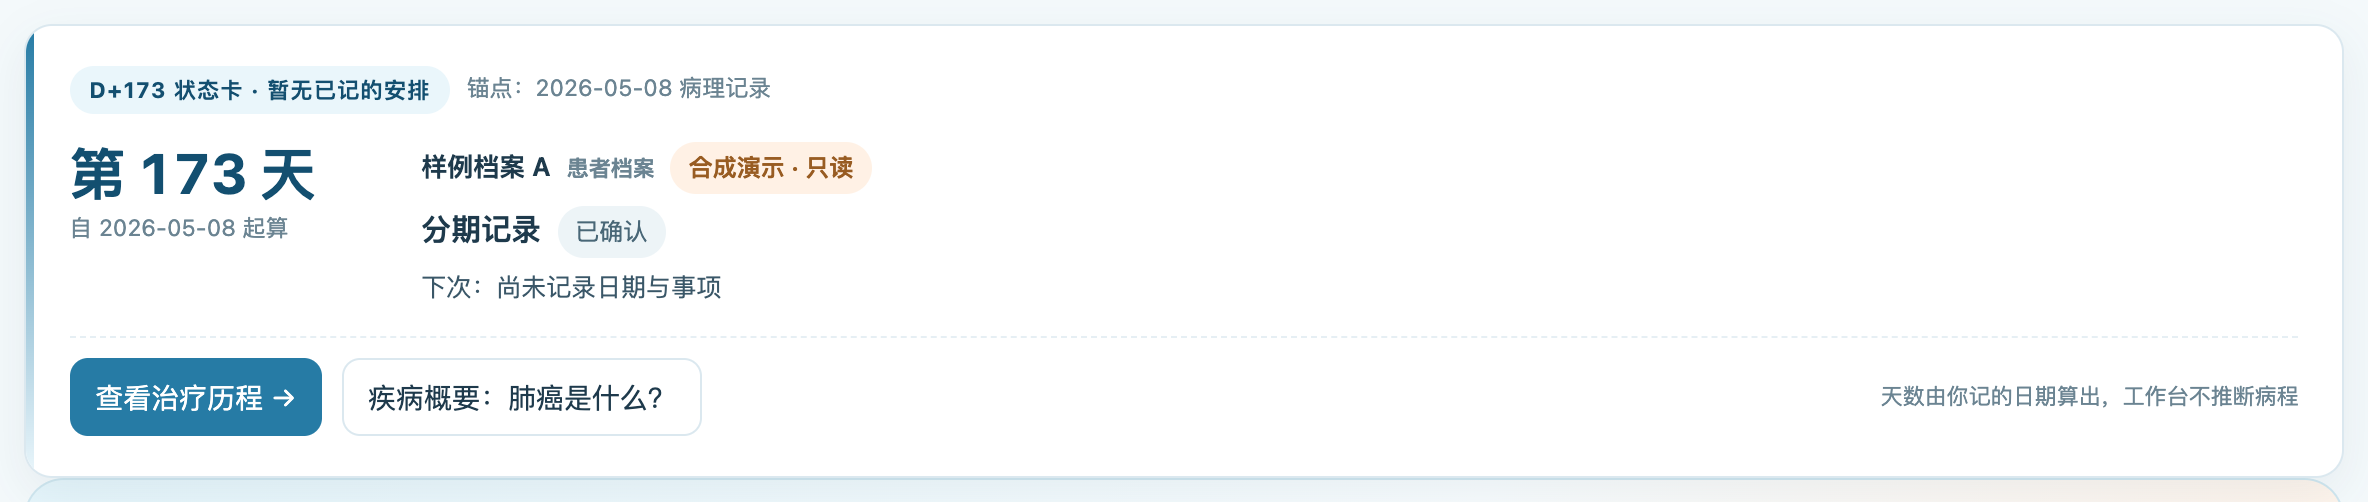
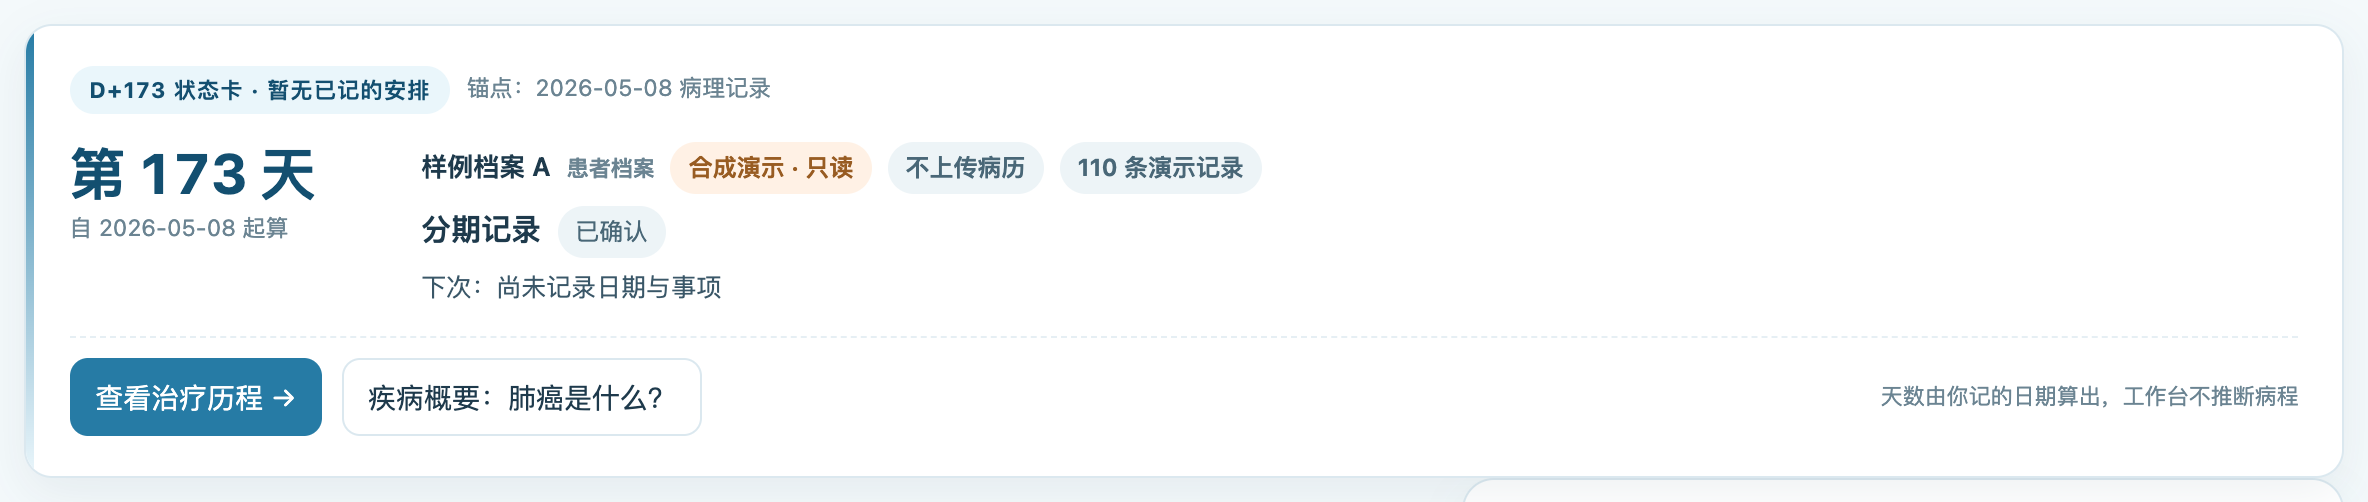
fix(36): 看板只留一个「下一步」+ 修正「距下次」天数方向（0.1.2-rc.18）
demo v4.2.8 确认后的应用层收口，修三个真缺陷：

1) 同屏两套「下一步」互相打架：状态卡写「暂无已记的安排」，下面的问候横幅
   却把 80 多天前的一条记录标成「下一步：骨转移灶姑息放疗」。按原型
   hero() = statusCard() 对齐——撤掉横幅，状态卡即首卡；原横幅上的
   「不上传病历」「N 条记录」标签并入状态卡档案行，信息不丢。
2) 天数方向反了：nextGap 用 dayOf()（今天 − 日期），未来的安排被渲染成
   「已过 N 天，待更新」（2099 年的安排会显示已过 26427 天）。改为取反；
   日期已过的安排按历史处理，不再计入「下次」。
3) 撤横幅后新用户丢了「浏览演示病例」入口，空态补回，与「＋ 建立本机资料档案」并列。

另：卡头按原型补事项名「距下次「胸部 CT 复查」N 天」，超 14 字退回通用说法。

- test/client-render.test.js 新增 3 条（唯一「下一步」来源 / 未来安排天数 /
  过期安排不算下次），64/64 通过；npm run check 通过。
- 真实渲染复验：1440/1024/820/空态均无横向溢出，0 console 报错，
  四段概要 26 链接全 https、指南表 9 行 9 链接、返回与 Esc 各只退一层。
- 记录 docs/reviews/RC18-DASHBOARD-SINGLE-NEXT.md；RC17 文档修正过期表述与
  三条已替换的弱链。
- 包 release/xyb-openharness-dsh-plugins-lung-cancer-workbench-0.1.2-rc.18.tgz，
  已装 profile 并核对库内与仓库 client.js 同 sha。

Changed region(s): [[0.0312, 0.9263, 0.625, 0.9562], [0.375, 0.2988, 0.5312, 0.3586]]

diff --git a/lib/client.js b/lib/client.js
@@ -4,7 +4,7 @@ window.__ModuleLoader__.load({
     const React = require('react')
     const h = React.createElement
     const API = '/api/lung-cancer-workbench'
-    const VERSION = '0.1.2-rc.17 · 开发中'
+    const VERSION = '0.1.2-rc.18 · 开发中'
     /*__CHART_HELPERS_START__*/
 function metricIdentity(record) {
   return [record.data.metricName || '未命名指标',record.data.unit || '单位未记录',record.data.methodText || '方法未记录',record.data.laboratoryText || '实验室未记录'].join(' · ')
@@ -1438,7 +1438,9 @@ const primerStatusCard = () => {
   const who = caseFile
     ? h('div', { className: 'sc-who' }, caseFile.displayName || '我的资料',
       h('span', { className: 'wb-muted wb-small' }, caseFile.subjectRole === 'caregiver' ? '照护者档案' : '患者档案'),
-      h('span', { className: 'wb-tag ' + (isDemoCase ? 'orange' : 'blue') }, isDemoCase ? '合成演示 · 只读' : '本机保存'))
+      h('span', { className: 'wb-tag ' + (isDemoCase ? 'orange' : 'blue') }, isDemoCase ? '合成演示 · 只读' : '本机保存'),
+      h('span', { className: 'wb-tag' }, '不上传病历'),
+      h('span', { className: 'wb-tag' }, `${records.length} 条${isDemoCase ? '演示' : '个人'}记录`))
     : h('div', { className: 'sc-who' }, '还没有建立本机资料档案',
       h('span', { className: 'wb-tag' }, '建立后这里才会出现天数'))
   const primerButton = h('button', { type: 'button', className: 'wb-button wb-primer-open', onClick: openPrimer }, '疾病概要：肺癌是什么？')
@@ -1452,15 +1454,23 @@ const primerStatusCard = () => {
         stageRecord ? h('div', { className: 'sc-stage' }, h('b', null, dataTitle(stageRecord)), h('span', { className: 'wb-tag' }, statusText(stageRecord))) : null,
         h('div', { className: 'sc-next' }, '记一条已确认的病理或诊断记录后，这张卡会显示「第 N 天」与距下次安排的间隔。当前不推算，也不填占位数字。')),
       h('div', { className: 'sc-actions' },
-        caseFile ? button('去病情整理 →', () => setPage('records'), 'wb-button primary') : button('＋ 建立本机资料档案', () => setShowNewCase(true), 'wb-button primary'),
+        caseFile
+          ? button('去病情整理 →', () => setPage('records'), 'wb-button primary')
+          : [button('＋ 建立本机资料档案', () => setShowNewCase(true), 'wb-button primary'),
+            h('button', { key: 'demo', type: 'button', className: 'wb-button soft', onClick: () => setShowCasePicker(true) }, '浏览演示病例')],
         primerButton, hint))
   }
 
   const day = dayOf(anchor) + 1
-  const nextGap = next ? dayOf(dayish(next)) : null
+  /* dayOf() 算的是「今天 − 日期」；下次安排在未来，所以取反才是「还有几天」。
+   * 之前直接用了 dayOf()，未来的安排会被说成「已过 N 天，待更新」。 */
+  const nextGap = next ? -dayOf(dayish(next)) : null
+  /* 原型 v4.2.8 的 eyebrow 是「距下次<事项> N 天」；事项名太长会挤坏卡头，超长时退回通用说法。 */
+  const nextName = next ? dataTitle(next) : ''
+  const shortName = nextName && nextName.length <= 14 ? nextName : ''
   const gapText = nextGap === null ? '暂无已记的安排'
-    : nextGap > 0 ? `距下次安排 ${nextGap} 天`
-      : nextGap === 0 ? '今天有安排' : `已过 ${-nextGap} 天，待更新`
+    : nextGap > 0 ? (shortName ? `距下次「${shortName}」${nextGap} 天` : `距下次安排 ${nextGap} 天`)
+      : nextGap === 0 ? (shortName ? `今天有安排：${shortName}` : '今天有安排') : `已过 ${-nextGap} 天，待更新`
   const core = next ? ['timeline', '查看病程安排 →']
     : dated.some(record => ['systemic_therapy', 'surgery', 'radiotherapy'].includes(record.kind)) ? ['clinical', '查看治疗历程 →']
       : ['records', '查看资料库 →']
@@ -1530,18 +1540,9 @@ const primerStatusCard = () => {
           key: `${target}-${title}`, className: 'wb-task-entry', onClick: () => openQuickLink(target),
           'aria-label': `${title}：${desc}`,
         }, h('span', { className: 'wb-task-icon', 'aria-hidden': true }, icon), h('b', null, title), h('span', { className: 'wb-task-desc' }, desc), h('span', { className: 'wb-task-arrow', 'aria-hidden': true }, '↗')))
-        const hero = h('section', { className: 'wb-hero' },
-          h('div', { className: 'wb-hero-copy' }, h('span', { className: 'wb-eyebrow' }, '今天，先看最要紧的一件事'),
-            h('h2', null, caseFile?.displayName ? `你好，${caseFile.displayName}。把这段路慢慢理清楚。` : '把这段路，慢慢理清楚。'),
-            h('p', null, '报告、取材、治疗和身体变化可以放在一起回顾。暂时不知道的内容可以留空，不需要一次整理完。'),
-            h('div', { className: 'wb-tags' }, h('span', { className: `wb-tag ${isDemoCase ? 'orange' : 'blue'}` }, isDemoCase ? '合成演示 · 只读' : caseFile ? (caseFile.subjectRole === 'caregiver' ? '照护者资料' : '本机资料') : '本机保存'),
-              isDemoCase ? h('span', { className: 'wb-tag' }, caseFile.demoScenario) : null,
-              h('span', { className: 'wb-tag' }, '不上传病历'),
-              caseFile ? h('span', { className: 'wb-tag' }, `${records.length} 条${isDemoCase ? '演示' : '个人'}记录`) : h('span', { className: 'wb-tag' }, '无需一次填完整档案'))),
-          h('aside', { className: 'wb-hero-panel wb-hero-next' }, h('span', { className: 'wb-muted wb-small' }, caseFile ? '下一步' : '从这里开始'),
-            h('strong', null, caseFile ? (arranged[0] ? dataTitle(arranged[0]) : '挑一件最关心的事') : '建立一个本机资料档案'),
-            h('span', { className: 'wb-muted wb-small' }, caseFile ? (arranged[0] ? `${dateText(arranged[0].date)} · ${statusText(arranged[0])}` : '可以先整理报告、准备复诊问题或查看试验登记') : '称呼或代号可空；不需要先填写完整病史。'),
-            caseFile ? button(arranged[0] ? '查看病程安排 →' : '整理复诊问题 →', () => setPage(arranged[0] ? 'timeline' : 'review'), 'wb-button primary') : h('div', { className: 'wb-actions' }, newCase, button('浏览演示病例', () => setShowCasePicker(true), 'wb-button soft'))))
+        /* 36 号 §2.6：看板首卡就是病程状态卡（与原型 v4.2.8 的 hero() = statusCard() 对齐）。
+ * 原来的问候横幅已撤掉——它和状态卡各说一套「下一步」，会给出互相矛盾的结论。 */
+        const hero = primerStatusCard()
         const rightFacts = keyFacts.map(([label,record]) => h('div', { className: 'wb-key-row', key: label },
           h('div', null, h('b', null, label), h('p', null, record ? dataTitle(record) : '尚未记录')),
           h('span', { className: `wb-tag ${record ? record.review.state === 'accepted' ? 'green' : 'orange' : ''}` }, record ? statusText(record) : '未记录')))
@@ -1602,7 +1603,7 @@ const primerStatusCard = () => {
               button('＋ 记录一件事', () => caseFile ? setShowComposer(true) : setShowNewCase(true), 'wb-button primary'),
               h('button', {className:'wb-button soft',onClick:()=>openNativeConversation(),disabled:busy,'aria-controls':showNativeConversation?'wb-ai-pane':undefined,'aria-expanded':showNativeConversation},'打开 AI 助手'),
               button('今日身体变化', () => openQuickLink('care'), 'wb-button'))),
-          primerStatusCard(), hero, h('div', { className: 'wb-dashboard-grid' }, leftColumn, rightColumn), metricsSection,
+          hero, h('div', { className: 'wb-dashboard-grid' }, leftColumn, rightColumn), metricsSection,
           showComposer && caseFile ? renderComposer() : null)
       }
 

diff --git a/lib/client-primer.js b/lib/client-primer.js
@@ -115,7 +115,9 @@ const primerStatusCard = () => {
   const who = caseFile
     ? h('div', { className: 'sc-who' }, caseFile.displayName || '我的资料',
       h('span', { className: 'wb-muted wb-small' }, caseFile.subjectRole === 'caregiver' ? '照护者档案' : '患者档案'),
-      h('span', { className: 'wb-tag ' + (isDemoCase ? 'orange' : 'blue') }, isDemoCase ? '合成演示 · 只读' : '本机保存'))
+      h('span', { className: 'wb-tag ' + (isDemoCase ? 'orange' : 'blue') }, isDemoCase ? '合成演示 · 只读' : '本机保存'),
+      h('span', { className: 'wb-tag' }, '不上传病历'),
+      h('span', { className: 'wb-tag' }, `${records.length} 条${isDemoCase ? '演示' : '个人'}记录`))
     : h('div', { className: 'sc-who' }, '还没有建立本机资料档案',
       h('span', { className: 'wb-tag' }, '建立后这里才会出现天数'))
   const primerButton = h('button', { type: 'button', className: 'wb-button wb-primer-open', onClick: openPrimer }, '疾病概要：肺癌是什么？')
@@ -129,15 +131,23 @@ const primerStatusCard = () => {
         stageRecord ? h('div', { className: 'sc-stage' }, h('b', null, dataTitle(stageRecord)), h('span', { className: 'wb-tag' }, statusText(stageRecord))) : null,
         h('div', { className: 'sc-next' }, '记一条已确认的病理或诊断记录后，这张卡会显示「第 N 天」与距下次安排的间隔。当前不推算，也不填占位数字。')),
       h('div', { className: 'sc-actions' },
-        caseFile ? button('去病情整理 →', () => setPage('records'), 'wb-button primary') : button('＋ 建立本机资料档案', () => setShowNewCase(true), 'wb-button primary'),
+        caseFile
+          ? button('去病情整理 →', () => setPage('records'), 'wb-button primary')
+          : [button('＋ 建立本机资料档案', () => setShowNewCase(true), 'wb-button primary'),
+            h('button', { key: 'demo', type: 'button', className: 'wb-button soft', onClick: () => setShowCasePicker(true) }, '浏览演示病例')],
         primerButton, hint))
   }
 
   const day = dayOf(anchor) + 1
-  const nextGap = next ? dayOf(dayish(next)) : null
+  /* dayOf() 算的是「今天 − 日期」；下次安排在未来，所以取反才是「还有几天」。
+   * 之前直接用了 dayOf()，未来的安排会被说成「已过 N 天，待更新」。 */
+  const nextGap = next ? -dayOf(dayish(next)) : null
+  /* 原型 v4.2.8 的 eyebrow 是「距下次<事项> N 天」；事项名太长会挤坏卡头，超长时退回通用说法。 */
+  const nextName = next ? dataTitle(next) : ''
+  const shortName = nextName && nextName.length <= 14 ? nextName : ''
   const gapText = nextGap === null ? '暂无已记的安排'
-    : nextGap > 0 ? `距下次安排 ${nextGap} 天`
-      : nextGap === 0 ? '今天有安排' : `已过 ${-nextGap} 天，待更新`
+    : nextGap > 0 ? (shortName ? `距下次「${shortName}」${nextGap} 天` : `距下次安排 ${nextGap} 天`)
+      : nextGap === 0 ? (shortName ? `今天有安排：${shortName}` : '今天有安排') : `已过 ${-nextGap} 天，待更新`
   const core = next ? ['timeline', '查看病程安排 →']
     : dated.some(record => ['systemic_therapy', 'surgery', 'radiotherapy'].includes(record.kind)) ? ['clinical', '查看治疗历程 →']
       : ['records', '查看资料库 →']

diff --git a/docs/reviews/RC18-DASHBOARD-SINGLE-NEXT.md b/docs/reviews/RC18-DASHBOARD-SINGLE-NEXT.md
@@ -1,0 +1,62 @@
+# RC18 · 肺癌 demo v4.2.8 确认后的应用层收口
+
+日期：2026-10-27。基线：`docs/prototype/lung-workbench-v4.2.8.html`（本轮已由用户确认）。
+包版本：`0.1.2-rc.18`。前置：RC17 已把疾病概要整页与状态卡接入 `lib/client.js`，但只做到「加一块卡」，没有处理它与看板原有内容的冲突。
+
+## 本轮修掉的三件事
+
+### 1. 看板出现两个「下一步」，结论互相矛盾
+
+同一屏上下两块给出冲突信息：
+
+| 位置 | 内容 |
+| --- | --- |
+| 状态卡（首卡） | `D+173 状态卡 · 暂无已记的安排` / `下次：尚未记录日期与事项` |
+| 问候横幅 | `下一步 骨转移灶姑息放疗 30 Gy / 10 次` `2026-08-05 · 已确认` |
+
+横幅取的是「最近一条已确认安排」，不判日期，把 **已经过去 80 多天** 的记录标成「下一步」。两块并存等于工作台自相矛盾。
+
+按原型对齐：`function hero() { return statusCard(); }`——状态卡 **就是** 首卡。应用侧改成 `const hero = primerStatusCard()`，撤掉问候横幅；原来挂在横幅上的「不上传病历」「N 条演示记录」两个标签并入状态卡的档案信息行，信息不丢。
+
+### 2. 「距下次 N 天」的天数符号反了
+
+`dayOf()` 算的是 `今天 − 日期`。未来的安排代入后得到负数，却被当成「过去」，于是一条 2099 年的安排会渲染成「已过 26427 天，待更新」。改为取反后才是「还有几天」：
+
+```js
+const nextGap = next ? -dayOf(dayish(next)) : null
+```
+
+同时补两条断言锁住方向：未来 → `距下次「…」N 天`；日期已过 → 不出现「距下次」「已过」。日期已过的安排按「历史」处理，不再冒充下次。
+
+### 3. 撤横幅后新用户丢了「浏览演示病例」入口
+
+空态原来只有「＋ 建立本机资料档案」。改为同时给「＋ 建立本机资料档案」「浏览演示病例」，与撤横幅前的能力一致。
+
+## 卡头补回事项名
+
+原型卡头是「距下次<事项> N 天」，应用侧此前只写「距下次安排 N 天」。现按 `dataTitle(next)` 带入事项名；名称超过 14 字时退回通用说法，避免挤坏卡头。
+
+## 验收
+
+- 单测 **64/64**（原 61 + 新增 3 条：唯一「下一步」来源、未来安排天数、过期安排不算下次）
+- `npm run check` 退出码 0
+- 真实渲染（`scripts/dev-browser-preview.mjs` + 演示病例，1440×900）：
+
+| 项 | 值 |
+| --- | --- |
+| 状态卡 | `D+173 状态卡 · 暂无已记的安排`，锚点 2026-05-08 病理记录 |
+| 首卡 | `sc-card`，`.wb-hero` 数量 0 |
+| 疾病概要 | 四段 definition › evidence › landscape › trend，面板 1408×868 |
+| 链接 | 26 个，全 https，缺链红标 0 |
+| 指南表 | 9 行 / 9 个可点链接 |
+| 导航 | 浏览器返回只退一层；Esc 后焦点回「?」 |
+| console | 0 错误 |
+| 溢出 | 1440 / 1024 / 820 / 空态 1440 均 `over=false`、`mainOver=false` |
+
+截图：`rc18-dash1440.png`、`rc18-dash1024.png`、`rc18-dash820.png`、`rc18-empty1440.png`。
+
+## 仍未决
+
+1. 「?」的挂载位置：36 号字面写 `.top-actions`，本项目的顶栏由宿主外壳渲染，现挂在 `.wb-host-actions` 首位，视觉仍在顶栏右侧。
+2. 是否切 2026 版指南作主源（需重核 P35/P36/P40/P208/P209/P227 全部页码）。
+3. 趋势段第 8 条占位说明待真实统计口径。

diff --git a/README.md b/README.md
@@ -2,17 +2,17 @@
 
 ## Git开发快照 · 2026-10-20
 
-保存RC2–RC15阶段累计的单文件客户端、SQLite病例与来源文档服务、临床检索、指标趋势模块、v4.2系列HTML原型及修复记录。最终快照已包含指标目录补全，56项测试通过；继续保留开发分支，实机/原型确认仍待完成。 包版本 `0.1.2-rc.17`；这是开发快照，正式发布状态另行记录。核验结果、已知问题及同步范围见 [本次Git记录](docs/GIT-SYNC-2026-10-20.md)。
+保存RC2–RC15阶段累计的单文件客户端、SQLite病例与来源文档服务、临床检索、指标趋势模块、v4.2系列HTML原型及修复记录。最终快照已包含指标目录补全，56项测试通过；继续保留开发分支，实机/原型确认仍待完成。 包版本 `0.1.2-rc.18`；这是开发快照，正式发布状态另行记录。核验结果、已知问题及同步范围见 [本次Git记录](docs/GIT-SYNC-2026-10-20.md)。
 
 
-面向肺癌患者与照护者的本机资料、就诊准备与综合照护工作台（v0.1.2-rc.17 开发中，未发布）
+面向肺癌患者与照护者的本机资料、就诊准备与综合照护工作台（v0.1.2-rc.18 开发中，未发布）
 
 首版正在实现小肺宝工作台 UI、本机 SQLite 病例记录、用户核对与 JSON 导出、内置临床试验快照搜索及用户主动触发的 ClinicalTrials.gov 在线检索。临床知识、病历解析、AI、上传附件及 DSH 实机验收仍未完成。需求见 [BRIEF](docs/BRIEF.md)，规格见 [SPEC](docs/SPEC.md)，任务见 [TASKS](docs/TASKS.md)。
 
 ## 疾病概要
 
 > 四段固定、整体属解释层（第 ② 层）：只整理公开信息，不判断你的病情。
-> 落地形态（RC17）：顶栏「?」打开整页概要（36 号整页视图，返回与关闭两个入口）；看板首卡是 D+N 状态卡——天数由**已确认的**病理或诊断记录日期派生，没有锚点时整卡显示「待初始化」，不填占位数字。
+> 落地形态（RC18）：顶栏「?」打开整页概要（36 号整页视图，返回与关闭两个入口）；看板首卡**就是** D+N 状态卡（原问候横幅已撤，避免两块各说一套「下一步」），天数由**已确认的**病理或诊断记录日期派生，没有锚点时整卡显示「待初始化」，不填占位数字；卡头的「距下次」只认未来日期，日期已过的安排按历史处理。
 > 原件状态照实写：卫健委 2022 / 2024 两份、CSCO 2026 正文、AJCC 手册**均未取得原件**，页码一律待核。
 
 ### 定义

diff --git a/docs/reviews/RC17-PRIMER-DEMO-REVIEW.md b/docs/reviews/RC17-PRIMER-DEMO-REVIEW.md
@@ -3,7 +3,7 @@
 日期：2026-10-27。基线：`docs/prototype/lung-workbench-v4.2.7.html`（sha256 已冻结在 `prototype-v4.2.7-baseline.json`）。
 候选：`docs/prototype/lung-workbench-v4.2.8.html`。生成命令：`python3 scripts/build-prototype-v428.py`。
 
-本文件只记录**原型层**的交付与实测。应用层（`lib/client.js` React 版浮窗、README 四段、升版、装机）尚未开始，等确认后再做。
+本文件只记录**原型层**的交付与实测。应用层已在 2026-10-27 demo 确认后落地：`0.1.2-rc.17` 接入整页概要与状态卡，`0.1.2-rc.18` 修掉它与看板原有横幅的冲突，见 [RC18](RC18-DASHBOARD-SINGLE-NEXT.md)。
 
 ## 本轮做了什么
 
@@ -22,9 +22,9 @@
 | 机构 / 文件 | 状态 | 链接 |
 | --- | --- | --- |
 | 国家卫生健康委 · 原发性肺癌诊疗指南（2022 年版） | 已取得原件 | `nhc.gov.cn/.../1732863054387_68585.pdf` |
-| 中华医学会 · 肺癌临床诊疗指南（2025 版） | 未取得原件，据二次来源（杂志社公众号全文） | `mp.weixin.qq.com/s?...` |
-| CSCO · 非小细胞肺癌诊疗指南（2025 版） | 未取得原件，据二次来源 | `hnysfww.com/article.php?id=4272` |
-| CSCO · 小细胞肺癌诊疗指南（2025 版） | 未取得原件，据二次来源（更新要点解读） | `liangyihui.net/doc/152195` |
+| 中华医学会 · 肺癌临床诊疗指南（2025 版） | 未取得原件，据二次来源（官方全文库） | `rs.yiigle.com/cmaid/1553565` |
+| CSCO · 非小细胞肺癌诊疗指南（2025 版） | 未取得原件，据二次来源（人卫社书目页） | `pmphmall.com/gdsdetail/654973-333567` |
+| CSCO · 小细胞肺癌诊疗指南（2025 版） | 未取得原件，据二次来源（人卫社书目页） | `pmphmall.com/gdsdetail/654952-333546` |
 | NCCN · NSCLC Guidelines V9.2026 | 未取得原件（官网需注册），据官方目录页 | `nccn.org/...?id=1450` |
 | NCCN · SCLC Guidelines V2.2026 | 未取得原件（官网需注册），据官方目录页 | `nccn.org/...?id=1451` |
 | WHO / IARC · Thoracic Tumours 5th ed.（2021） | 未取得原件（需订阅），据官方出版页 | `publications.iarc.who.int/...` |

diff --git a/CHANGELOG.md b/CHANGELOG.md
@@ -1,5 +1,16 @@
 # 变更记录
 
+## 2026-10-27 · 看板只留一个「下一步」+ 天数方向修正（包版本 0.1.2-rc.18）
+
+用户确认 demo `lung-workbench-v4.2.8.html` 后的应用层收口。
+
+- **撤掉问候横幅**：状态卡成为看板首卡（与原型 `hero() = statusCard()` 一致）。此前横幅与状态卡各说一套「下一步」，横幅还把 80 多天前的记录标成下一步，同屏自相矛盾。原横幅的「不上传病历」「N 条记录」标签并入状态卡档案行。
+- **修正天数方向**：`nextGap` 原用 `dayOf()`（今天 − 日期），未来的安排被渲染成「已过 N 天，待更新」；改为取反。日期已过的安排按历史处理，不再计入「下次」。
+- **卡头带事项名**：`距下次「胸部 CT 复查」N 天`，名字超 14 字退回通用说法。
+- **空态保留演示入口**：「＋ 建立本机资料档案」与「浏览演示病例」并列，撤横幅不减少能力。
+- **测试**：新增 3 条断言（唯一「下一步」来源 / 未来安排天数 / 过期安排不算下次），64/64 通过；`npm run check` 通过。
+- 详细记录：[docs/reviews/RC18-DASHBOARD-SINGLE-NEXT.md](docs/reviews/RC18-DASHBOARD-SINGLE-NEXT.md)。
+
 ## 2026-10-27 · 36 号疾病概要 v2 落地（包版本 0.1.2-rc.17）
 
 - **顶栏「?」→ 整页概要**：`lib/client.js` 新增 `primerOverlay`（36 号整页视图，`open=pushState`，返回与关闭是两个入口，Esc 与浏览器返回各只退一层）；四段顺序固定，样式复用 starter 的 `disease-primer.css`，数据来自 `docs/prototype/primer-data.js`（构建期注入 `PRIMER_DATA`，单一来源不漂移）。
